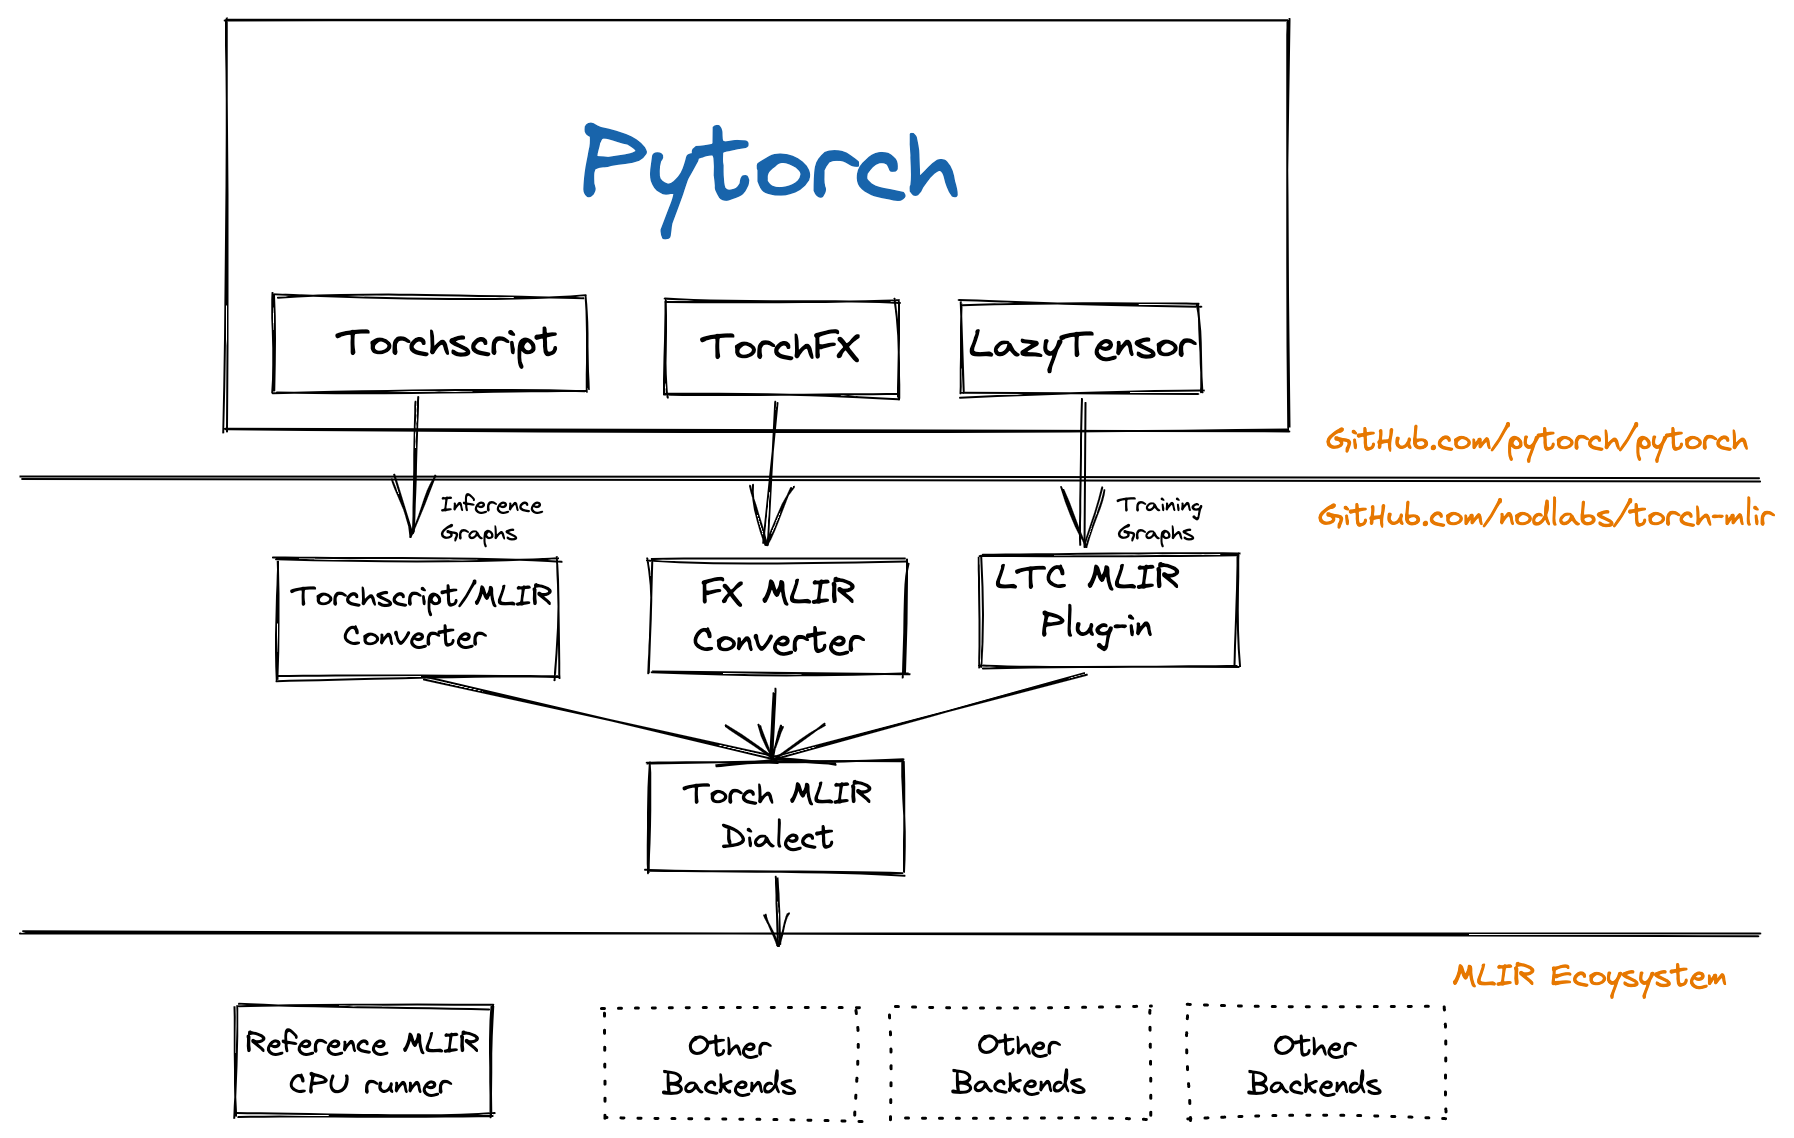
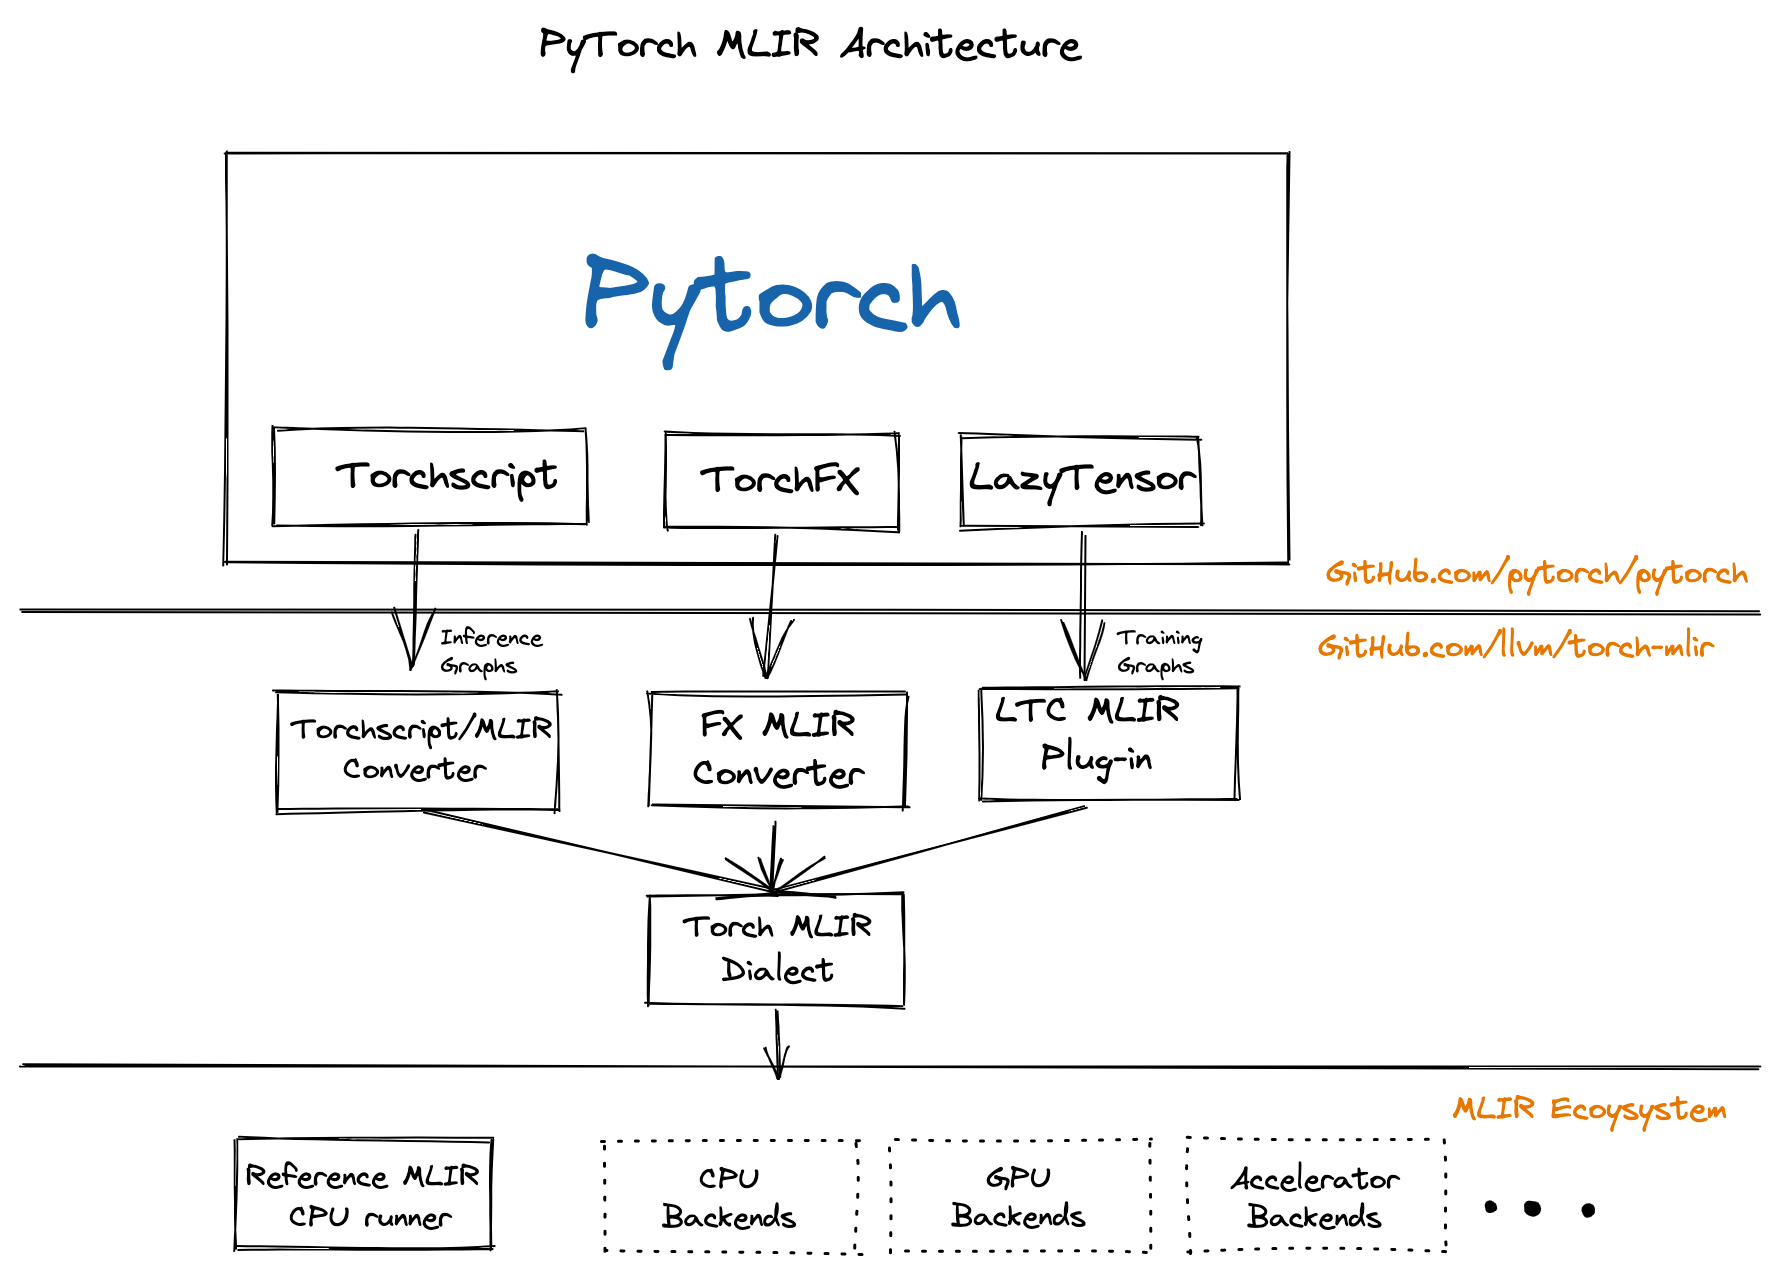
Update diagram and Readme.md

diff --git a/README.md b/README.md
@@ -13,10 +13,8 @@ An open source machine learning framework that accelerates the path from researc
 [MLIR](https://mlir.llvm.org)
 The MLIR project is a novel approach to building reusable and extensible compiler infrastructure. MLIR aims to address software fragmentation, improve compilation for heterogeneous hardware, significantly reduce the cost of building domain specific compilers, and aid in connecting existing compilers together.
 
-[Torch-MLIR](https://github.com/nodlabs/torch-mlir)
+[Torch-MLIR](https://github.com/llvm/torch-mlir)
 Multiple Vendors use MLIR as the middle layer mapping from Platform Frameworks like Pytorch, JAX, Tensorflow onto MLIR and then progressively lower down to their target hardware. We have seen half a dozen custom lowerings from PyTorch to MLIR. Having a canonical lowering from the Pytorch ecosystem to the MLIR ecosystem would provide much needed relief to Hardware Vendors to focus on their unique value rather than implementing another Pytorch frontend for MLIR. It would be similar to current hardware vendors adding LLVM target support instead of each one also implementing the Clang/C++ frontend.
-
-Torch-MLIR was incubated in the [MLIR-NPCOMP](https://github.com/llvm/mlir-npcomp)  project as a custom frontend. We added support there for Torchscript and “torch_xla”-style capture - referred to as ACAP in the codebase. As the project has grown we have moved it to be standalone focused solely on Torch lowering to MLIR dialects (the primary unit of organization in the MLIR ecosystem) and is now hosted at https://github.com/NodLabs/torch-mlir. It will be dual licensed BSD and LLVM (Apache with LLVM Exception) for ease of integration into either upstream project (PyTorch or LLVM).
 
 ## All the roads from PyTorch to Torch MLIR Dialect
 
